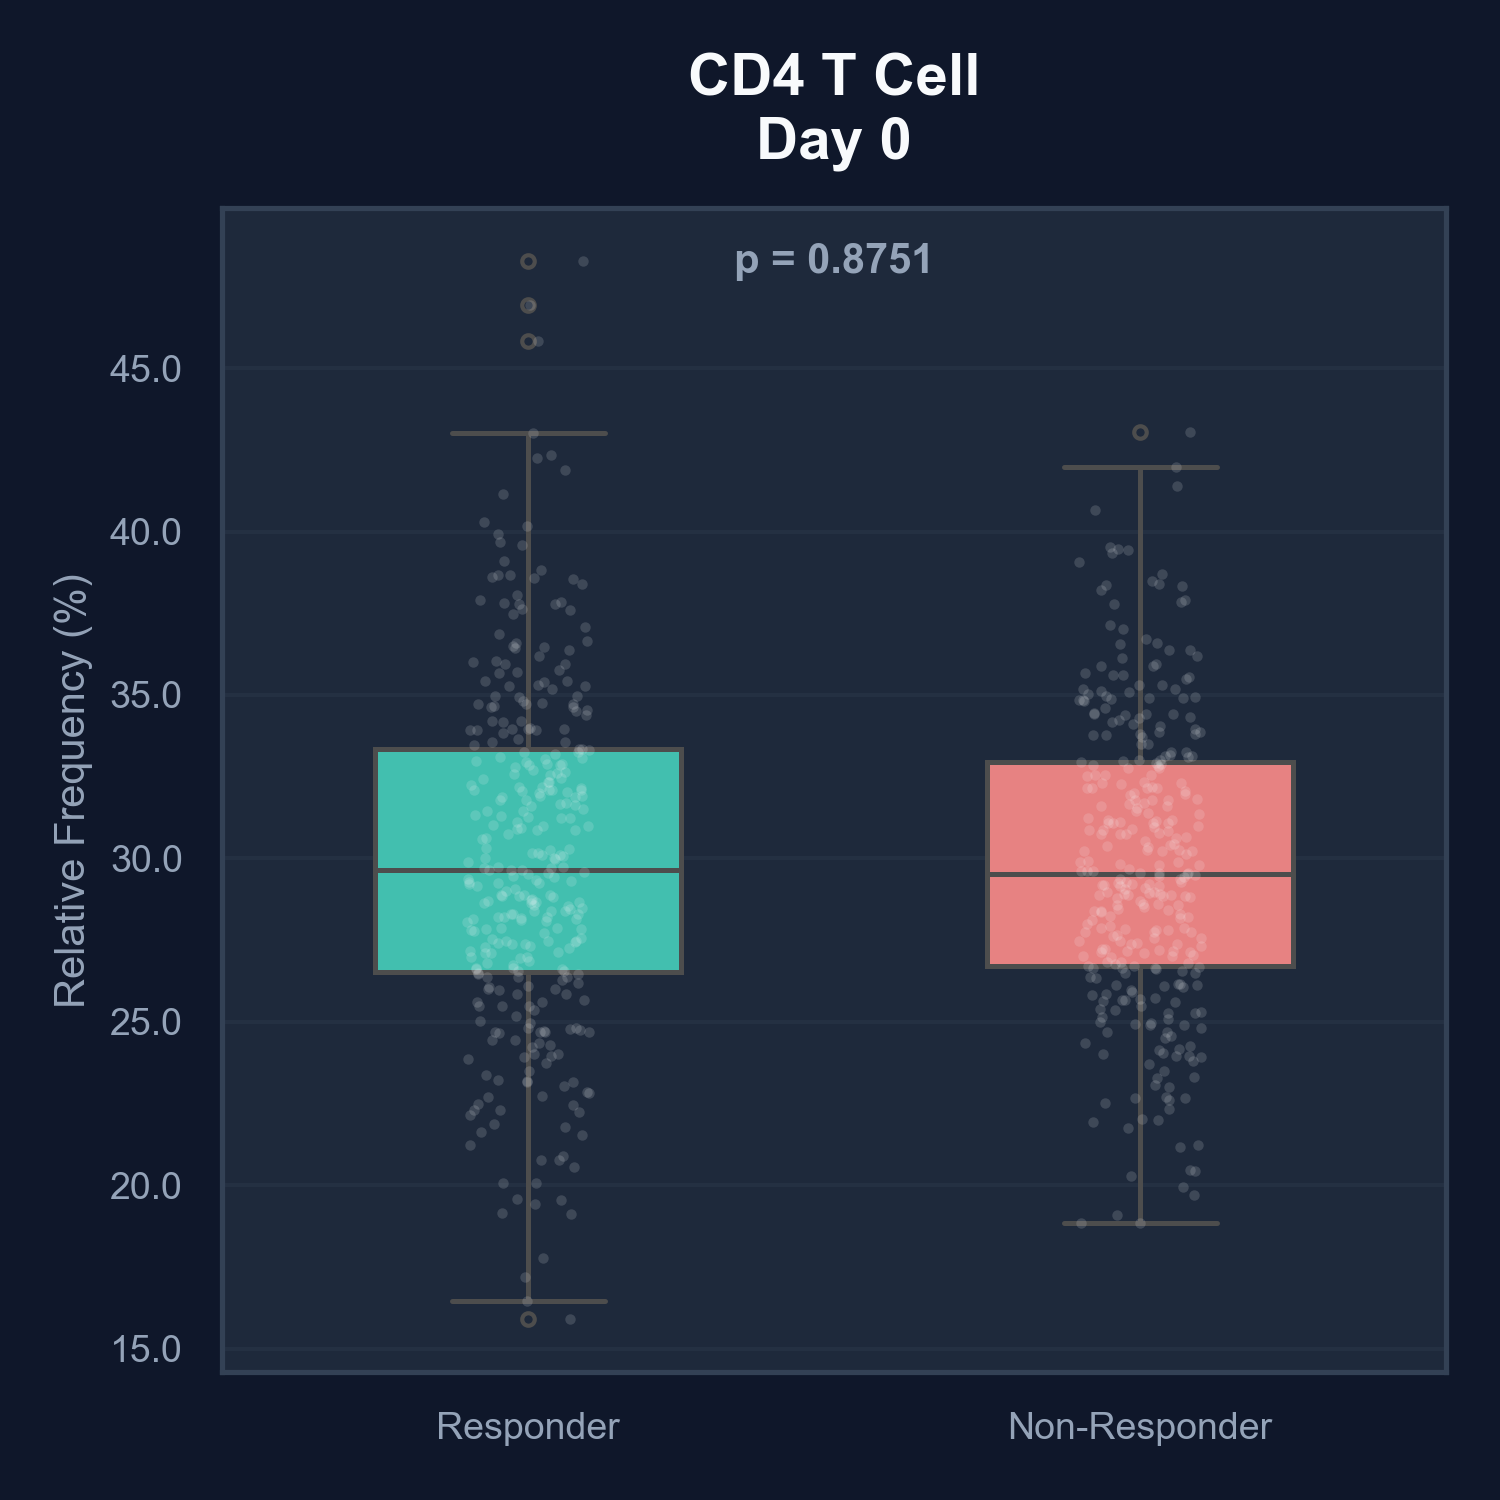
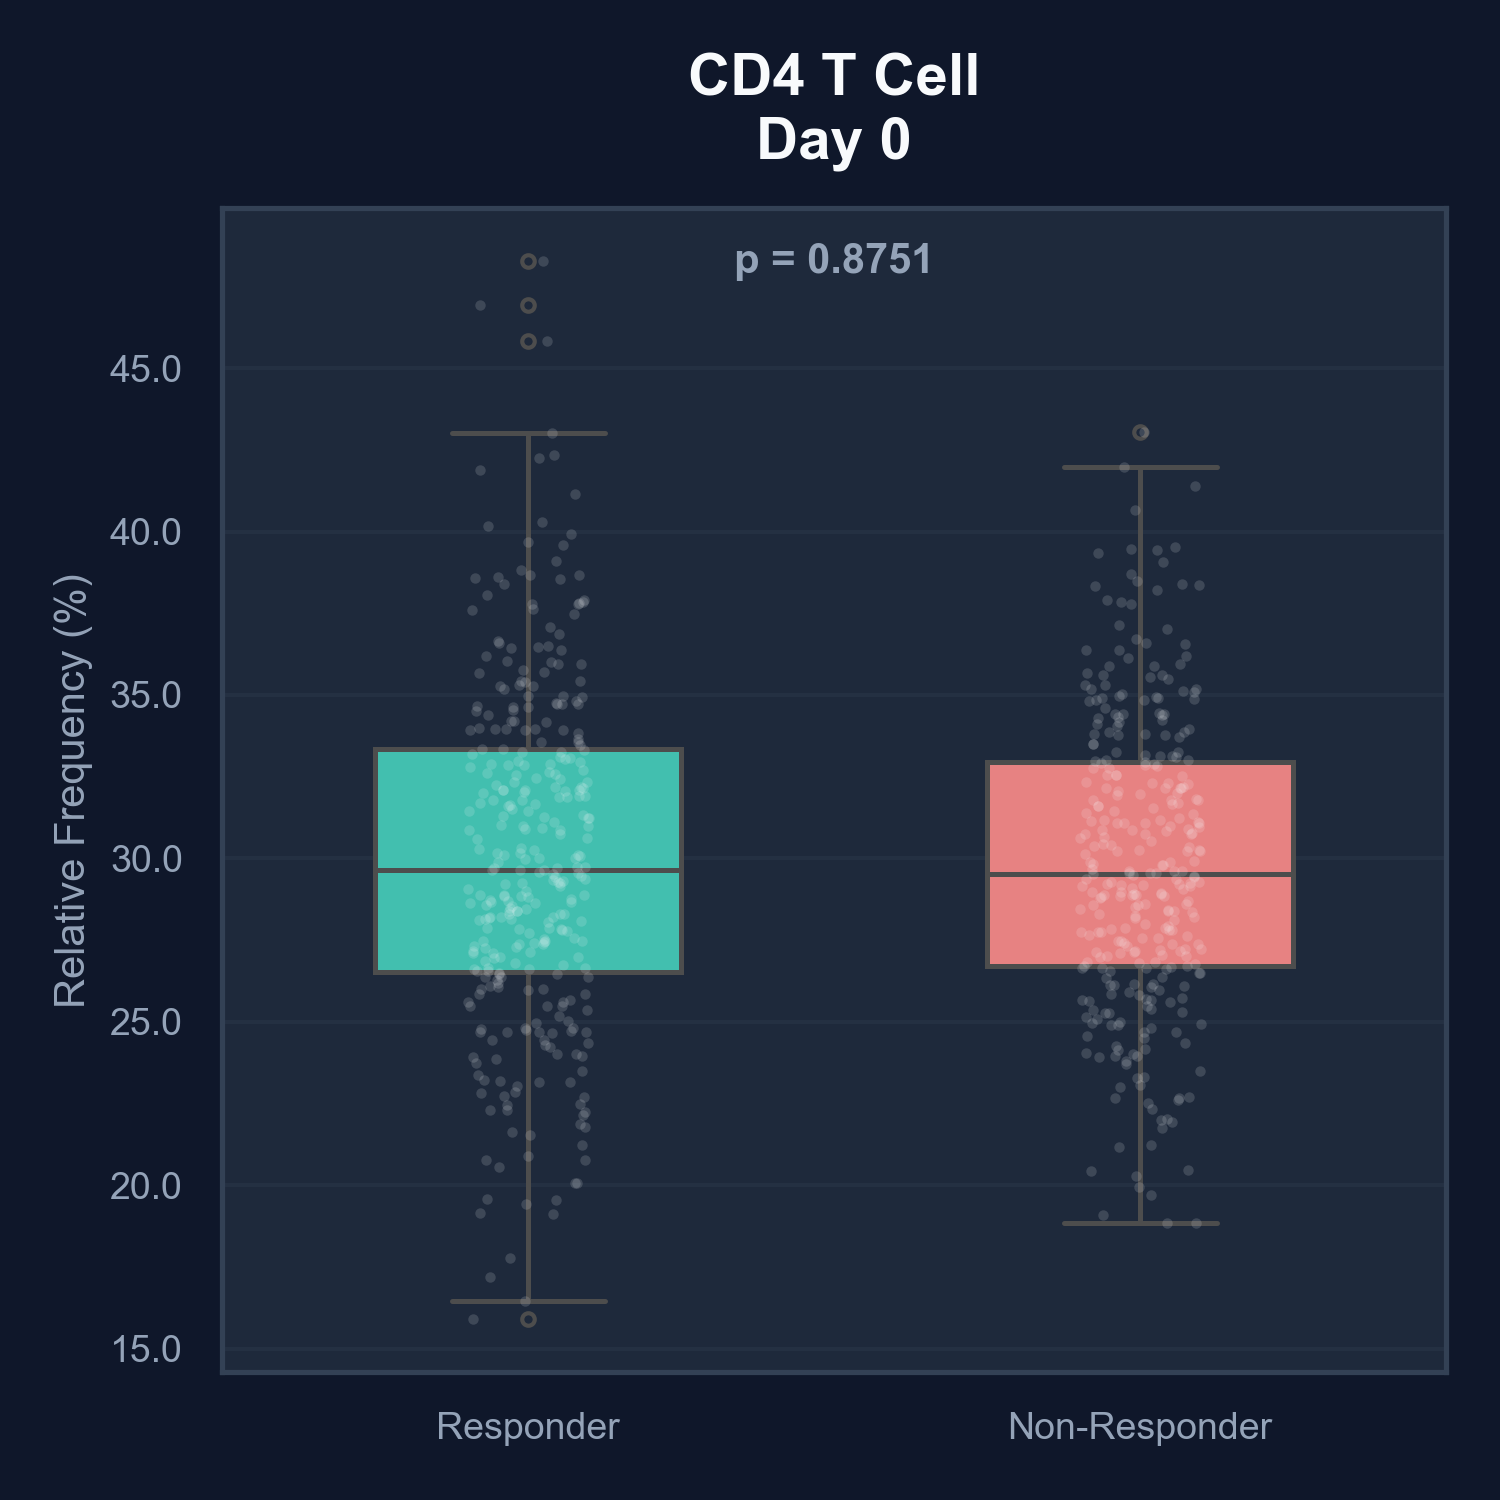
fix: improve plot legibility - smaller figure, larger fonts, y-axis labels on both rows

Changed region(s): [[0.3067, 0.3373, 0.3987, 0.828], [0.7053, 0.3373, 0.7973, 0.7667]]

diff --git a/pipeline.py b/pipeline.py
@@ -232,9 +232,9 @@ def _render_combined_boxplot(df: pd.DataFrame, raw_p: dict, bh_p: dict,
                              out_path: Path, title: str = "") -> None:
     """Render all 5 populations in a 3+2 grid with three-tier significance."""
     sns.set_theme(style="darkgrid")
-    fig = plt.figure(figsize=(26, 13))
+    fig = plt.figure(figsize=(15, 10))
     fig.patch.set_facecolor(COLORS["bg"])
-    gs = fig.add_gridspec(2, 6, hspace=0.35, wspace=0.4)
+    gs = fig.add_gridspec(2, 6, hspace=0.45, wspace=0.5)
 
     # 3 on top, 2 centered on bottom
     axes = [
@@ -246,8 +246,8 @@ def _render_combined_boxplot(df: pd.DataFrame, raw_p: dict, bh_p: dict,
     ]
 
     if title:
-        fig.suptitle(title, color=COLORS["text"], fontsize=20, fontweight="bold",
-                     y=0.98)
+        fig.suptitle(title, color=COLORS["text"], fontsize=24, fontweight="bold",
+                     y=1.0)
 
     palette = {"Responder": COLORS["teal"], "Non-Responder": COLORS["coral"]}
 
@@ -276,11 +276,12 @@ def _render_combined_boxplot(df: pd.DataFrame, raw_p: dict, bh_p: dict,
             order=["Responder", "Non-Responder"],
         )
 
-        ax.set_title(label, color=COLORS["text"], fontsize=15, fontweight="bold",
+        ax.set_title(label, color=COLORS["text"], fontsize=18, fontweight="bold",
                      pad=10)
         ax.set_xlabel("")
-        ax.set_ylabel("Relative Freq. (%)" if pop == POPULATIONS[0] else "",
-                      color=COLORS["text_secondary"], fontsize=11)
+        show_ylabel = pop in (POPULATIONS[0], POPULATIONS[3])  # first of each row
+        ax.set_ylabel("Relative Freq. (%)" if show_ylabel else "",
+                      color=COLORS["text_secondary"], fontsize=14)
 
         # Three-tier significance coloring
         if bh_pval < 0.05:
@@ -296,10 +297,10 @@ def _render_combined_boxplot(df: pd.DataFrame, raw_p: dict, bh_p: dict,
         ax.text(
             0.5, 0.97, f"BH p = {bh_pval:.4f}{sig_marker}",
             transform=ax.transAxes, ha="center", va="top",
-            fontsize=13, color=sig_color, fontweight="bold",
+            fontsize=16, color=sig_color, fontweight="bold",
         )
 
-        ax.tick_params(colors=COLORS["text_secondary"], labelsize=12)
+        ax.tick_params(colors=COLORS["text_secondary"], labelsize=14)
         ax.yaxis.set_major_formatter(mticker.FormatStrFormatter("%.1f"))
         for spine in ax.spines.values():
             spine.set_color(COLORS["grid"])
@@ -310,18 +311,17 @@ def _render_combined_boxplot(df: pd.DataFrame, raw_p: dict, bh_p: dict,
     from matplotlib.lines import Line2D
     legend_elements = [
         Line2D([0], [0], marker="s", color="none", markerfacecolor=COLORS["teal"],
-               markersize=8, label="** Significant (BH-adjusted p < 0.05)"),
+               markersize=10, label="** Significant (BH-adjusted p < 0.05)"),
         Line2D([0], [0], marker="s", color="none", markerfacecolor="#FBBF24",
-               markersize=8, label="*  Significant before correction only"),
+               markersize=10, label="*  Significant before correction only"),
         Line2D([0], [0], marker="s", color="none", markerfacecolor=COLORS["text_secondary"],
-               markersize=8, label="   Not significant"),
+               markersize=10, label="   Not significant"),
     ]
     fig.legend(handles=legend_elements, loc="lower center", ncol=3,
-               frameon=False, fontsize=12,
+               frameon=False, fontsize=14,
                labelcolor=COLORS["text_secondary"],
-               bbox_to_anchor=(0.5, -0.06), columnspacing=4.0)
+               bbox_to_anchor=(0.5, -0.04), columnspacing=3.0)
 
-    fig.tight_layout()
     fig.savefig(out_path, dpi=300, facecolor=COLORS["bg"], bbox_inches="tight")
     plt.close(fig)
 
